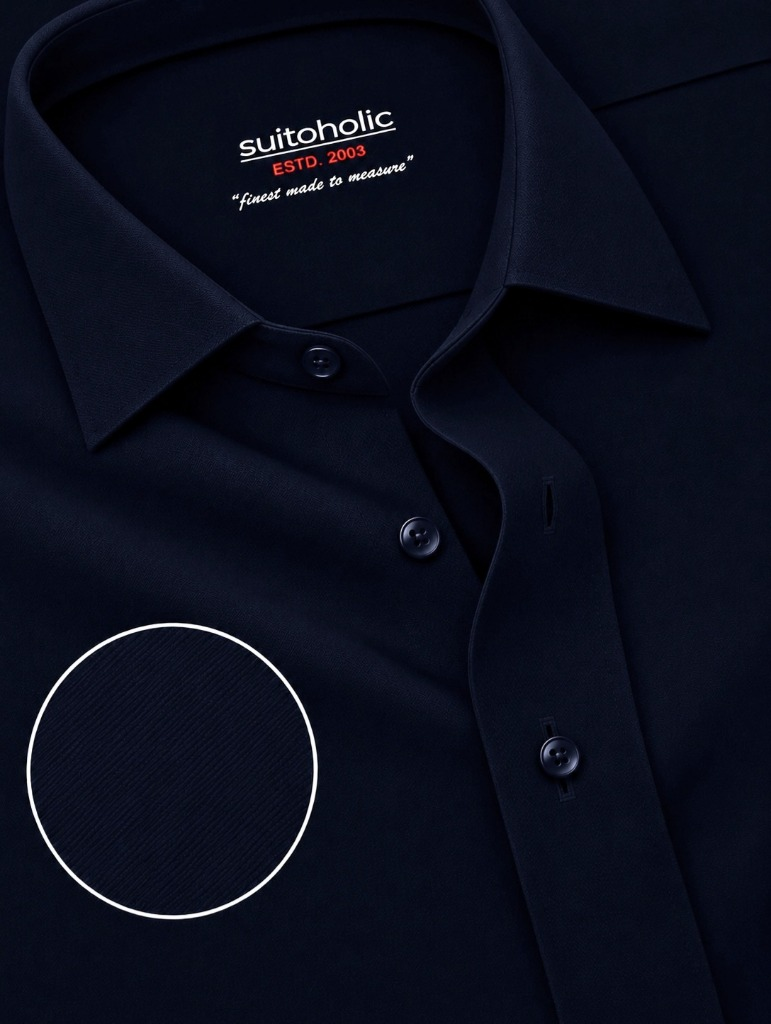
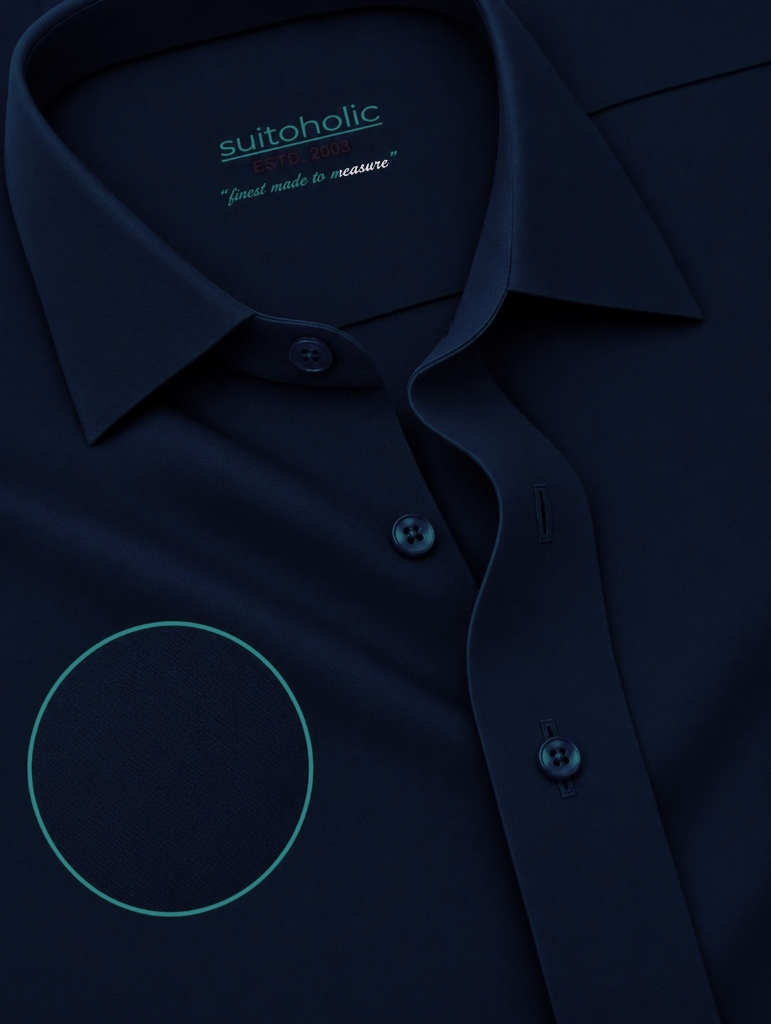
feat: add homepage collections, interactive hero video, and modern product components

diff --git a/src/data/products.ts b/src/data/products.ts
@@ -1026,8 +1026,8 @@ export const allProducts: ProductItem[] = [
     collar: "Semi-Spread Classic Collar",
     cuff: "Two-Button Adjustable Round Cuff",
     fit: "Custom Made-to-Measure (Lean / Regular / Comfort)",
-    image: "/new_shirts/lsp-378-13-arctic-ice-blue.jpg",
-    gallery: ["/new_shirts/lsp-378-13-arctic-ice-blue.jpg"],
+    image: "/new_shirts/lsp-378-13-arctic-ice-blue-v2.jpg",
+    gallery: ["/new_shirts/lsp-378-13-arctic-ice-blue-v2.jpg"],
     colorways: [{ name: "Arctic Ice Blue", hex: "#E1EDF7", productSlug: "lsp-378-13-arctic-frost-ice-blue-bespoke-shirt" }],
     rating: 5.0,
     reviewsCount: 22,
@@ -1051,8 +1051,8 @@ export const allProducts: ProductItem[] = [
     collar: "Semi-Spread Classic Collar",
     cuff: "Two-Button Adjustable Round Cuff",
     fit: "Custom Made-to-Measure (Lean / Regular / Comfort)",
-    image: "/new_shirts/lsp-029-37-ink-indigo.jpg",
-    gallery: ["/new_shirts/lsp-029-37-ink-indigo.jpg"],
+    image: "/new_shirts/lsp-029-37-ink-indigo-v2.jpg",
+    gallery: ["/new_shirts/lsp-029-37-ink-indigo-v2.jpg"],
     colorways: [{ name: "Ink Indigo", hex: "#0F1A2E", productSlug: "lsp-029-37-deep-ink-indigo-bespoke-shirt" }],
     rating: 5.0,
     reviewsCount: 21,
@@ -1076,8 +1076,8 @@ export const allProducts: ProductItem[] = [
     collar: "Semi-Spread Classic Collar",
     cuff: "Two-Button Adjustable Round Cuff",
     fit: "Custom Made-to-Measure (Lean / Regular / Comfort)",
-    image: "/new_shirts/lsp-014-09-shadow-navy.jpg",
-    gallery: ["/new_shirts/lsp-014-09-shadow-navy.jpg"],
+    image: "/new_shirts/lsp-014-09-shadow-navy-v2.jpg",
+    gallery: ["/new_shirts/lsp-014-09-shadow-navy-v2.jpg"],
     colorways: [{ name: "Shadow Navy", hex: "#0A121D", productSlug: "lsp-014-09-shadow-abyss-navy-bespoke-shirt" }],
     rating: 5.0,
     reviewsCount: 20,
@@ -1101,8 +1101,8 @@ export const allProducts: ProductItem[] = [
     collar: "Semi-Spread Classic Collar",
     cuff: "Two-Button Adjustable Round Cuff",
     fit: "Custom Made-to-Measure (Lean / Regular / Comfort)",
-    image: "/new_shirts/lsp-014-07-lilac-whisper.jpg",
-    gallery: ["/new_shirts/lsp-014-07-lilac-whisper.jpg"],
+    image: "/new_shirts/lsp-014-07-lilac-whisper-v2.jpg",
+    gallery: ["/new_shirts/lsp-014-07-lilac-whisper-v2.jpg"],
     colorways: [{ name: "Lilac Whisper", hex: "#DDD6E5", productSlug: "lsp-014-07-lilac-whisper-bespoke-shirt" }],
     rating: 5.0,
     reviewsCount: 19,

diff --git a/src/app/page.tsx b/src/app/page.tsx
@@ -137,26 +137,8 @@ export default function Home() {
               return true;
             });
 
-            // If this is the "Latest drop" section (index === 0), ensure the Royal Steel Blue Bengal Stripe shirt is strictly first
-            let orderedProducts = dedupedCollectionProducts;
-            if (index === 0) {
-              const targetShirt = products.find(
-                (p) =>
-                  p.id === 52 ||
-                  p.slug === "royal-blue-classic-bengal-stripe-twill-shirt" ||
-                  (p.image && p.image.includes("shirt_21")) ||
-                  (p.name && p.name.toLowerCase().includes("royal steel blue"))
-              );
-              if (targetShirt) {
-                const rest = dedupedCollectionProducts.filter(
-                  (p) =>
-                    p.id !== targetShirt.id &&
-                    p.slug !== targetShirt.slug &&
-                    p.image !== targetShirt.image
-                );
-                orderedProducts = [targetShirt, ...rest];
-              }
-            }
+            // Keep original collection sort order directly from database
+            const orderedProducts = dedupedCollectionProducts;
 
             // Strictly 8 products for the Shop by Fabrics section
             const finalProducts = isShopByFabrics ? orderedProducts.slice(0, 8) : orderedProducts;

diff --git a/src/components/ModernProductCard.tsx b/src/components/ModernProductCard.tsx
@@ -45,7 +45,8 @@ export default function ModernProductCard({
     ? "/new_shirts/shirt_13.jpg"
     : (cleanImages[0] || product.image || "/new_shirts/shirt_13.jpg");
   const activeMainImage = cardImage || wideMainImage || baseImage;
-  const imageAspect = cardImage ? "aspect-[529/646]" : isWideSpan ? "aspect-[508/350]" : "aspect-[254/350]";
+  const isFoldedAsset = activeMainImage.includes("folded") || activeMainImage.includes("home-folded");
+  const imageAspect = (cardImage || isFoldedAsset) ? "aspect-[529/646]" : isWideSpan ? "aspect-[508/350]" : "aspect-[254/350]";
   const imageSizes = isWideSpan ? "(max-width: 767px) 100vw, 50vw" : "(max-width: 767px) 50vw, 25vw";
 
   const handleToggleSave = (e: MouseEvent) => {
